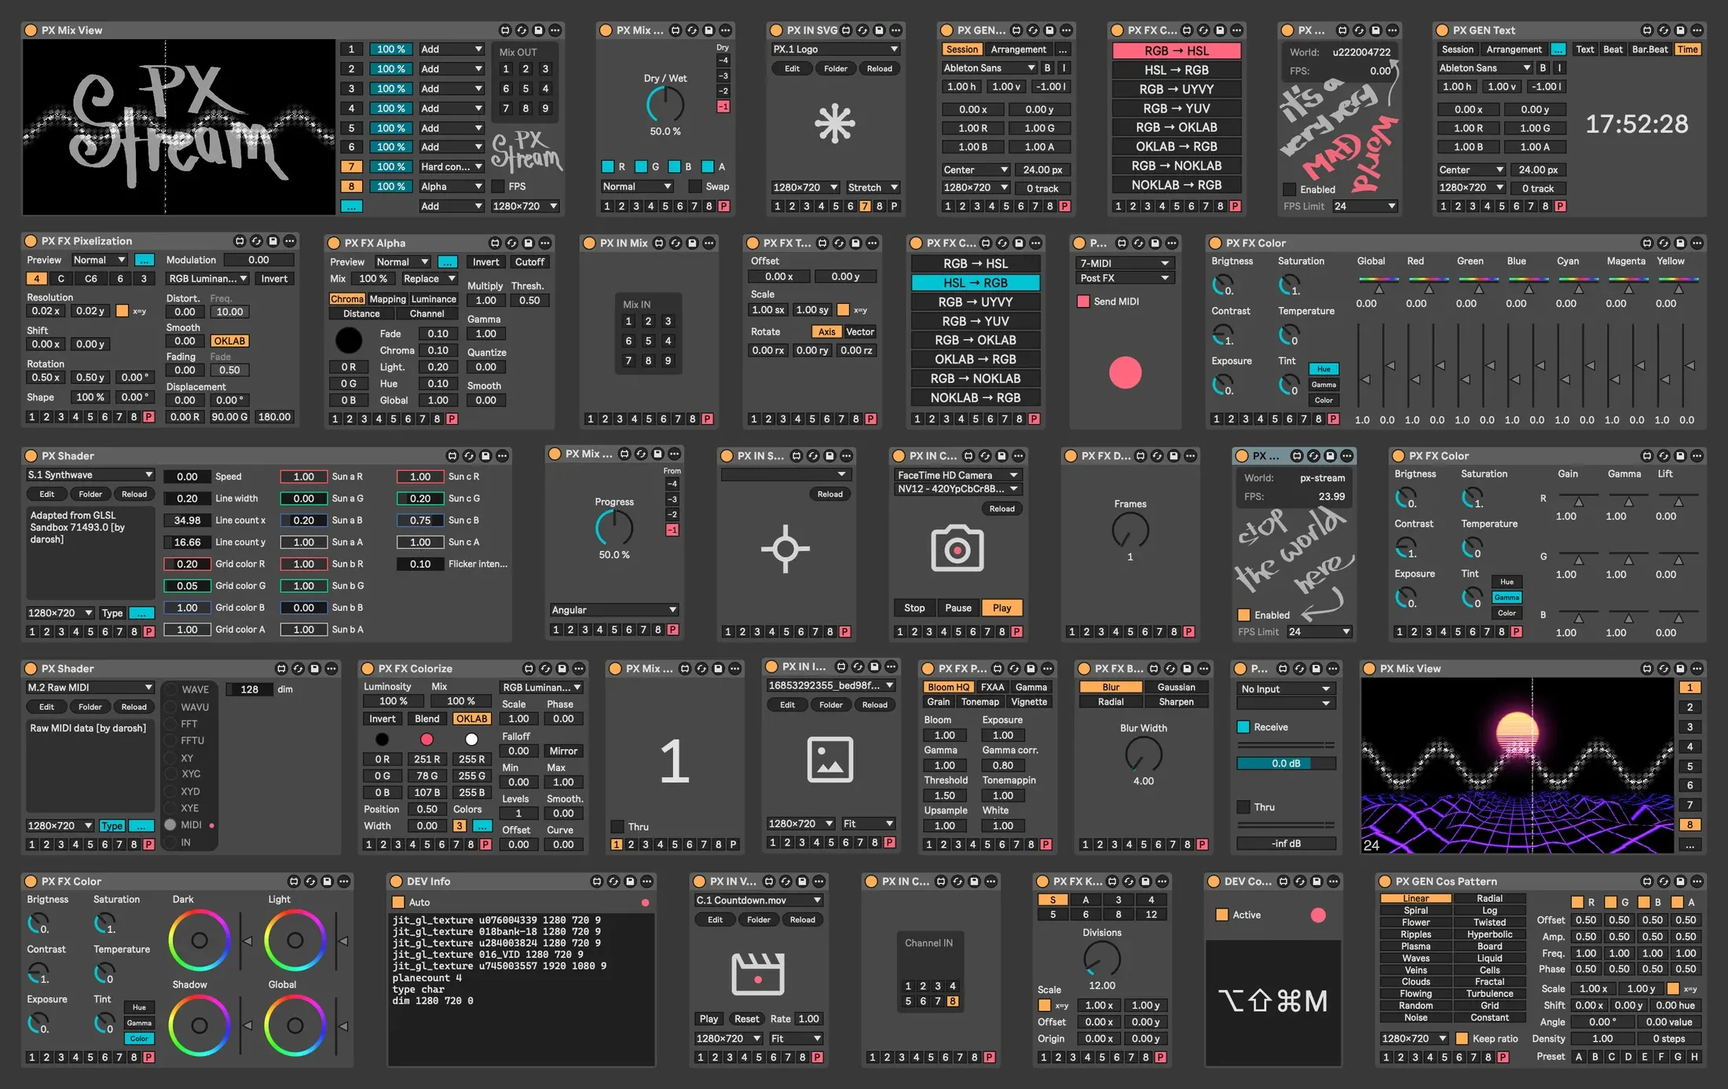
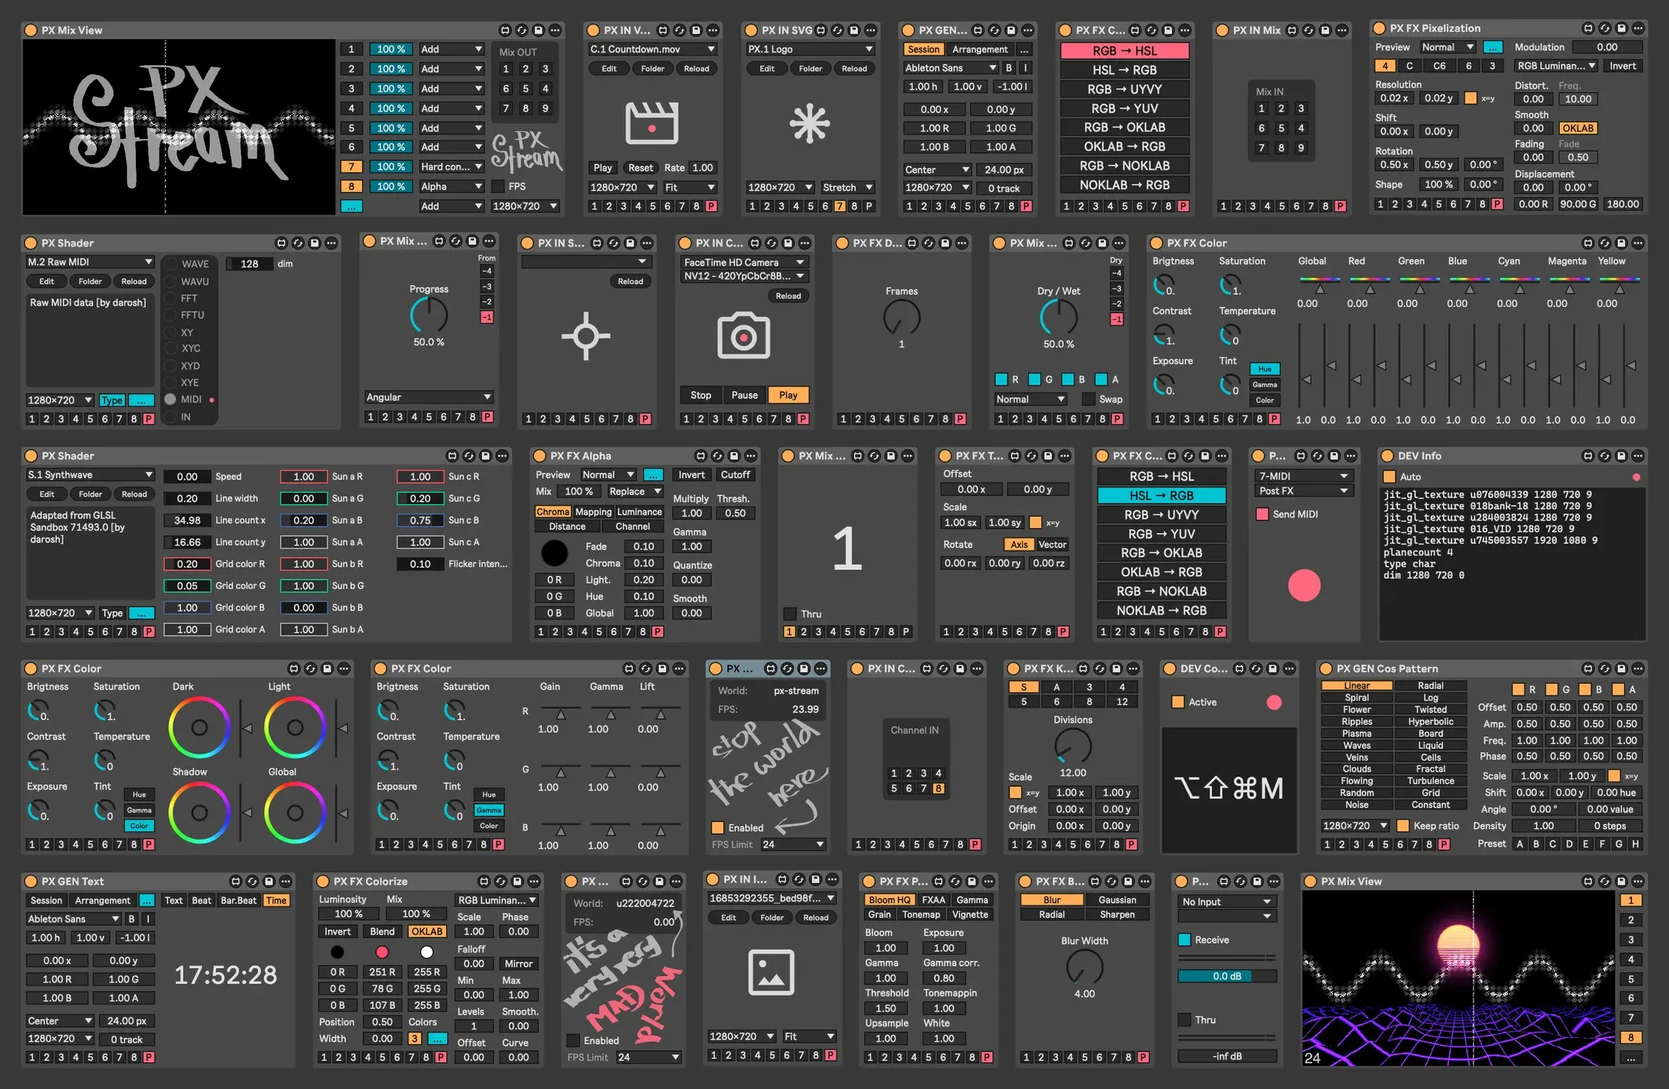
doc

diff --git a/assets/devices.html b/assets/devices.html
@@ -1,38 +1,38 @@
 <div>
-    <a href="#px-mix-view"><img src="./assets/devices/PX_Mix_View_(expanded)_v1.webp" title="PX Mix View" width="263"/></a>
-    <a href="#px-mix-dry"><img src="./assets/devices/PX_Mix_Dry_v1.webp" title="PX Mix Dry" width="69"/></a>
-    <a href="#in-svg"><img src="./assets/devices/PX_IN_SVG_v1.webp" title="IN SVG" width="69"/></a>
-    <a href="#gen-text"><img src="./assets/devices/PX_GEN_Text_v1.webp" title="GEN Text" width="69"/></a>
-    <a href="#fx-convert"><img src="./assets/devices/PX_FX_Convert_v1.webp" title="FX Convert" width="69"/></a>
-    <a href="#px-world"><img src="./assets/devices/PX_World_(mad_world)_v1.webp" title="PX World" width="62"/></a>
-    <a href="#gen-text"><img src="./assets/devices/PX_GEN_Text_(expanded)_v1.webp" title="GEN Text" width="134"/></a>
-    <a href="#fx-pixelization"><img src="./assets/devices/PX_FX_Pixelization_v1.webp" title="FX Pixelization" width="136"/></a>
-    <a href="#fx-alpha"><img src="./assets/devices/PX_FX_Alpha_v1.webp" title="FX Alpha" width="113"/></a>
-    <a href="#in-mix"><img src="./assets/devices/PX_IN_Mix_v1.webp" title="IN Mix" width="69"/></a>
-    <a href="#fx-transform"><img src="./assets/devices/PX_FX_Transform_v1.webp" title="FX Transform" width="69"/></a>
-    <a href="#fx-convert"><img src="./assets/devices/PX_FX_Convert_(convert_back)_v1.webp" title="FX Convert" width="69"/></a>
-    <a href="#px-route-midi"><img src="./assets/devices/PX_Route_MIDI_(linked)_v1.webp" title="PX Route MIDI" width="56"/></a>
-    <a href="#fx-color"><img src="./assets/devices/PX_FX_Color_(hue)_v1.webp" title="FX Color" width="243"/></a>
-    <a href="#px-shader"><img src="./assets/devices/PX_Shader_v1.webp" title="PX Shader" width="238"/></a>
-    <a href="#px-mix-transition"><img src="./assets/devices/PX_Mix_Transition_v1.webp" title="PX Mix Transition" width="69"/></a>
-    <a href="#in-syphon"><img src="./assets/devices/PX_IN_Syphon_v1.webp" title="IN Syphon" width="69"/></a>
-    <a href="#in-cam"><img src="./assets/devices/PX_IN_Cam_v1.webp" title="IN Cam" width="69"/></a>
-    <a href="#fx-delay"><img src="./assets/devices/PX_FX_Delay_v1.webp" title="FX Delay" width="69"/></a>
-    <a href="#px-world"><img src="./assets/devices/PX_World_v1.webp" title="PX World" width="62"/></a>
-    <a href="#fx-color"><img src="./assets/devices/PX_FX_Color_(gamma)_v1.webp" title="FX Color" width="155"/></a>
-    <a href="#px-shader"><img src="./assets/devices/PX_Shader_(types)_v1.webp" title="PX Shader" width="156"/></a>
-    <a href="#fx-colorize"><img src="./assets/devices/PX_FX_Colorize_v1.webp" title="FX Colorize" width="113"/></a>
-    <a href="#px-mix-channel"><img src="./assets/devices/PX_Mix_Channel_v1.webp" title="PX Mix Channel" width="69"/></a>
-    <a href="#in-image"><img src="./assets/devices/PX_IN_Image_v1.webp" title="IN Image" width="69"/></a>
-    <a href="#fx-pass"><img src="./assets/devices/PX_FX_Pass_v1.webp" title="FX Pass" width="69"/></a>
-    <a href="#fx-blur"><img src="./assets/devices/PX_FX_Blur_v1.webp" title="FX Blur" width="69"/></a>
-    <a href="#px-route-audio"><img src="./assets/devices/PX_Route_Audio_v1.webp" title="PX Route Audio" width="56"/></a>
-    <a href="#px-mix-view"><img src="./assets/devices/PX_Mix_View_v1.webp" title="PX Mix View" width="169"/></a>
-    <a href="#fx-color"><img src="./assets/devices/PX_FX_Color_v1.webp" title="FX Color" width="162"/></a>
-    <a href="#dev-info"><img src="./assets/devices/DEV_Info_v1.webp" title="DEV Info" width="132"/></a>
-    <a href="#in-video"><img src="./assets/devices/PX_IN_Video_v1.webp" title="IN Video" width="69"/></a>
-    <a href="#in-channel"><img src="./assets/devices/PX_IN_Channel_v1.webp" title="IN Channel" width="69"/></a>
-    <a href="#fx-kaleidoscope"><img src="./assets/devices/PX_FX_Kaleidoscope_v1.webp" title="FX Kaleidoscope" width="69"/></a>
-    <a href="#dev-console"><img src="./assets/devices/DEV_Console_v1.webp" title="DEV Console" width="69"/></a>
-    <a href="#gen-cos-pattern"><img src="./assets/devices/PX_GEN_Cos_Pattern_v1.webp" title="GEN Cos Pattern" width="161"/></a>
+    <a href="#px-mix-view"><img src="./assets/devices/PX_Mix_View_(expanded)_v1.webp" title="PX Mix View" width="273"/></a>
+    <a href="#in-video"><img src="./assets/devices/PX_IN_Video_v1.webp" title="IN Video" width="71"/></a>
+    <a href="#in-svg"><img src="./assets/devices/PX_IN_SVG_v1.webp" title="IN SVG" width="71"/></a>
+    <a href="#gen-text"><img src="./assets/devices/PX_GEN_Text_v1.webp" title="GEN Text" width="71"/></a>
+    <a href="#fx-convert"><img src="./assets/devices/PX_FX_Convert_v1.webp" title="FX Convert" width="71"/></a>
+    <a href="#in-mix"><img src="./assets/devices/PX_IN_Mix_v1.webp" title="IN Mix" width="71"/></a>
+    <a href="#fx-pixelization"><img src="./assets/devices/PX_FX_Pixelization_v1.webp" title="FX Pixelization" width="141"/></a>
+    <a href="#px-shader"><img src="./assets/devices/PX_Shader_(types)_v1.webp" title="PX Shader" width="161"/></a>
+    <a href="#px-mix-transition"><img src="./assets/devices/PX_Mix_Transition_v1.webp" title="PX Mix Transition" width="71"/></a>
+    <a href="#in-syphon"><img src="./assets/devices/PX_IN_Syphon_v1.webp" title="IN Syphon" width="71"/></a>
+    <a href="#in-cam"><img src="./assets/devices/PX_IN_Cam_v1.webp" title="IN Cam" width="71"/></a>
+    <a href="#fx-delay"><img src="./assets/devices/PX_FX_Delay_v1.webp" title="FX Delay" width="71"/></a>
+    <a href="#px-mix-dry"><img src="./assets/devices/PX_Mix_Dry_v1.webp" title="PX Mix Dry" width="71"/></a>
+    <a href="#fx-color"><img src="./assets/devices/PX_FX_Color_(hue)_v1.webp" title="FX Color" width="252"/></a>
+    <a href="#px-shader"><img src="./assets/devices/PX_Shader_v1.webp" title="PX Shader" width="246"/></a>
+    <a href="#fx-alpha"><img src="./assets/devices/PX_FX_Alpha_v1.webp" title="FX Alpha" width="117"/></a>
+    <a href="#px-mix-channel"><img src="./assets/devices/PX_Mix_Channel_v1.webp" title="PX Mix Channel" width="71"/></a>
+    <a href="#fx-transform"><img src="./assets/devices/PX_FX_Transform_v1.webp" title="FX Transform" width="71"/></a>
+    <a href="#fx-convert"><img src="./assets/devices/PX_FX_Convert_(convert_back)_v1.webp" title="FX Convert" width="71"/></a>
+    <a href="#px-route-midi"><img src="./assets/devices/PX_Route_MIDI_(linked)_v1.webp" title="PX Route MIDI" width="58"/></a>
+    <a href="#dev-info"><img src="./assets/devices/DEV_Info_v1.webp" title="DEV Info" width="137"/></a>
+    <a href="#fx-color"><img src="./assets/devices/PX_FX_Color_v1.webp" title="FX Color" width="168"/></a>
+    <a href="#fx-color"><img src="./assets/devices/PX_FX_Color_(gamma)_v1.webp" title="FX Color" width="161"/></a>
+    <a href="#px-world"><img src="./assets/devices/PX_World_v1.webp" title="PX World" width="64"/></a>
+    <a href="#in-channel"><img src="./assets/devices/PX_IN_Channel_v1.webp" title="IN Channel" width="71"/></a>
+    <a href="#fx-kaleidoscope"><img src="./assets/devices/PX_FX_Kaleidoscope_v1.webp" title="FX Kaleidoscope" width="71"/></a>
+    <a href="#dev-console"><img src="./assets/devices/DEV_Console_v1.webp" title="DEV Console" width="71"/></a>
+    <a href="#gen-cos-pattern"><img src="./assets/devices/PX_GEN_Cos_Pattern_v1.webp" title="GEN Cos Pattern" width="167"/></a>
+    <a href="#gen-text"><img src="./assets/devices/PX_GEN_Text_(expanded)_v1.webp" title="GEN Text" width="139"/></a>
+    <a href="#fx-colorize"><img src="./assets/devices/PX_FX_Colorize_v1.webp" title="FX Colorize" width="117"/></a>
+    <a href="#px-world"><img src="./assets/devices/PX_World_(mad_world)_v1.webp" title="PX World" width="64"/></a>
+    <a href="#in-image"><img src="./assets/devices/PX_IN_Image_v1.webp" title="IN Image" width="71"/></a>
+    <a href="#fx-pass"><img src="./assets/devices/PX_FX_Pass_v1.webp" title="FX Pass" width="71"/></a>
+    <a href="#fx-blur"><img src="./assets/devices/PX_FX_Blur_v1.webp" title="FX Blur" width="71"/></a>
+    <a href="#px-route-audio"><img src="./assets/devices/PX_Route_Audio_v1.webp" title="PX Route Audio" width="58"/></a>
+    <a href="#px-mix-view"><img src="./assets/devices/PX_Mix_View_v1.webp" title="PX Mix View" width="175"/></a>
 </div>

diff --git a/scripts/doc.js b/scripts/doc.js
@@ -2,6 +2,7 @@ import fs from 'fs'
 import path from 'path'
 import { glob } from 'glob'
 import sharp from 'sharp'
+import { readFile, writeFile } from 'fs/promises'
 
 // === CONFIGURATION ===
 const inputPattern = './assets/devices/*.webp' // adjust to your folder
@@ -34,6 +35,79 @@ function imgTitle (name) {
     .replace(/^px gen/i, 'GEN')
 }
 
+function refineRows (rowImages, rowWidths, rowOptimalWidth, maxIterations = 5000) {
+  const rows = rowImages.length
+
+  function score (widths) {
+    // lower is better: variance around target width
+    return widths.reduce((acc, w) => acc + Math.pow(w - rowOptimalWidth, 2), 0)
+  }
+
+  let bestScore = score(rowWidths)
+
+  for (let iter = 0; iter < maxIterations; iter++) {
+    let improved = false
+
+    // Try all pairs of rows
+    for (let r1 = 0; r1 < rows; r1++) {
+      for (let r2 = r1 + 1; r2 < rows; r2++) {
+        // Try all pairs of images between row r1 and r2
+        for (let i1 = 0; i1 < rowImages[r1].length; i1++) {
+          for (let i2 = 0; i2 < rowImages[r2].length; i2++) {
+            const img1 = rowImages[r1][i1]
+            const img2 = rowImages[r2][i2]
+
+            // widths after swap
+            const newWidths = [...rowWidths]
+            newWidths[r1] = newWidths[r1] - img1.width + img2.width
+            newWidths[r2] = newWidths[r2] - img2.width + img1.width
+
+            const newScore = score(newWidths)
+            if (newScore < bestScore) {
+              // accept swap
+              rowImages[r1][i1] = img2
+              rowImages[r2][i2] = img1
+              rowWidths[r1] = newWidths[r1]
+              rowWidths[r2] = newWidths[r2]
+              bestScore = newScore
+              improved = true
+            }
+          }
+        }
+      }
+    }
+
+    if (!improved) break // stop if no better swap found
+  }
+
+  return { rowImages, rowWidths }
+}
+
+async function createHtmlCollage (maxRowWidth, layout) {
+  // Generate HTML snippet for GH
+  const scaleFactor = targetWidth / (maxRowWidth + margin * 2)
+  const html = []
+  html.push(`<div>`)
+
+  layout.forEach((row, rowIndex) => {
+    // html.push(`  <div>`)
+    row.forEach((img, i) => {
+      const scaledWidth = Math.round(img.width * scaleFactor)
+      const title = imgTitle(img.name)
+      html.push(
+        `    <a href="#${imgSection(img.name)}"><img src="./${path.join('assets', 'devices', img.name)}" title="${title}" width="${scaledWidth}"/></a>`
+      )
+    })
+    // html.push('  </div>')
+  })
+  html.push('</div>')
+
+  await writeFile(htmlOutput, html.join('\n'), 'utf-8')
+  console.log('HTML snippet saved to', htmlOutput)
+
+  return html
+}
+
 async function createCollage () {
   // Get images
   const files = glob.sync(inputPattern)
@@ -52,9 +126,12 @@ async function createCollage () {
   // Sort images by width (descending)
   images.sort((a, b) => b.width - a.width)
 
+  const totalWidth = images.reduce((acc, { width }) => acc + width + spacing, 0)
+  const rowOptimalWidth = totalWidth / rows
+
   // Initialize rows
-  const rowImages = Array.from({ length: rows }, () => [])
-  const rowWidths = Array(rows).fill(0)
+  let rowImages = Array.from({ length: rows }, () => [])
+  let rowWidths = Array(rows).fill(0)
 
   // Greedy bin packing: assign each image to the row with least current width
   for (const img of images) {
@@ -62,6 +139,13 @@ async function createCollage () {
     rowImages[targetRow].push(img)
     rowWidths[targetRow] += img.width + spacing
   }
+
+  // console.log({ rowWidths })
+
+  const { rowImages: refinedImages, rowWidths: refinedWidths } = refineRows(rowImages, rowWidths, rowOptimalWidth)
+  rowImages = refinedImages
+
+  // console.log({ refinedWidths })
 
   // Compute max row width
   const maxRowWidth = Math.max(
@@ -72,13 +156,22 @@ async function createCollage () {
 
   const totalHeight = rows * rowHeight + (rows - 1) * spacing
 
+  for (let rowIndex = 1; rowIndex < rowImages.length; rowIndex += 2) {
+    const t = rowImages[rowIndex]
+    rowImages[rowIndex] = rowImages[rowIndex + 1]
+    rowImages[rowIndex + 1] = t
+  }
+
   for (const row of rowImages) {
-    const index = (rowImages.indexOf(row) % 2 === 0) * 1;
+    let indexOf = rowImages.indexOf(row)
+    indexOf = indexOf === 3 ? indexOf + 1 : indexOf
+
+    const index = (indexOf % 2 === 0) * 1
     const pick = row[index]
     row.splice(index, 1)
     row.push(pick)
   }
-  
+
   // Prepare sharp composites and layout data for HTML
   const composites = []
   const layout = []
@@ -141,26 +234,30 @@ async function createCollage () {
   await collage.toFile(outputFile)
   console.log('Collage saved to', outputFile)
 
-  // Generate HTML snippet for GH
-  const scaleFactor = targetWidth / (maxRowWidth + margin * 2)
-  const html = []
-  html.push(`<div>`)
-
-  layout.forEach((row, rowIndex) => {
-    // html.push(`  <div>`)
-    row.forEach((img, i) => {
-      const scaledWidth = Math.round(img.width * scaleFactor)
-      const title = imgTitle(img.name)
-      html.push(
-        `    <a href="#${imgSection(img.name)}"><img src="./${path.join('assets', 'devices', img.name)}" title="${title}" width="${scaledWidth}"/></a>`
-      )
-    })
-    // html.push('  </div>')
-  })
-  html.push('</div>')
-
-  fs.writeFileSync(htmlOutput, html.join('\n'), 'utf-8')
-  console.log('HTML snippet saved to', htmlOutput)
+  return { maxRowWidth, layout }
 }
 
-await createCollage().catch(console.error)
+function replaceLines (lines, slug, replace) {
+  const begin = `<!-- begin: ${slug} -->`
+  const end = `<!-- end: ${slug} -->`
+
+  return [
+    ...lines.slice(0, lines.indexOf(begin) + 1),
+    ...Array.isArray(replace) ? replace : replace.split('\n'),
+    ...lines.slice(lines.indexOf(end))
+  ]
+}
+
+async function updateReadme (htmlCollage) {
+  const outputFile = './README.md'
+  const rm = readFile(outputFile, 'utf8')
+  const lines = (await rm).split('\n')
+  const updatedLines = replaceLines(lines, 'collage', htmlCollage)
+
+  await writeFile(outputFile, updatedLines.join('\n'))
+  console.log('README.md updated', outputFile)
+}
+
+const { maxRowWidth, layout } = await createCollage().catch(console.error)
+const htmlCollage = await createHtmlCollage(maxRowWidth, layout)
+await updateReadme(htmlCollage)

diff --git a/README.md b/README.md
@@ -6,44 +6,46 @@
 
 ## Devices
 
+<!-- begin: collage -->
 <div>
-    <a href="#px-mix-view"><img src="./assets/devices/PX_Mix_View_(expanded)_v1.webp" title="PX Mix View" width="263"/></a>
-    <a href="#px-mix-dry"><img src="./assets/devices/PX_Mix_Dry_v1.webp" title="PX Mix Dry" width="69"/></a>
-    <a href="#in-svg"><img src="./assets/devices/PX_IN_SVG_v1.webp" title="IN SVG" width="69"/></a>
-    <a href="#gen-text"><img src="./assets/devices/PX_GEN_Text_v1.webp" title="GEN Text" width="69"/></a>
-    <a href="#fx-convert"><img src="./assets/devices/PX_FX_Convert_v1.webp" title="FX Convert" width="69"/></a>
-    <a href="#px-world"><img src="./assets/devices/PX_World_(mad_world)_v1.webp" title="PX World" width="62"/></a>
-    <a href="#gen-text"><img src="./assets/devices/PX_GEN_Text_(expanded)_v1.webp" title="GEN Text" width="134"/></a>
-    <a href="#fx-pixelization"><img src="./assets/devices/PX_FX_Pixelization_v1.webp" title="FX Pixelization" width="136"/></a>
-    <a href="#fx-alpha"><img src="./assets/devices/PX_FX_Alpha_v1.webp" title="FX Alpha" width="113"/></a>
-    <a href="#in-mix"><img src="./assets/devices/PX_IN_Mix_v1.webp" title="IN Mix" width="69"/></a>
-    <a href="#fx-transform"><img src="./assets/devices/PX_FX_Transform_v1.webp" title="FX Transform" width="69"/></a>
-    <a href="#fx-convert"><img src="./assets/devices/PX_FX_Convert_(convert_back)_v1.webp" title="FX Convert" width="69"/></a>
-    <a href="#px-route-midi"><img src="./assets/devices/PX_Route_MIDI_(linked)_v1.webp" title="PX Route MIDI" width="56"/></a>
-    <a href="#fx-color"><img src="./assets/devices/PX_FX_Color_(hue)_v1.webp" title="FX Color" width="243"/></a>
-    <a href="#px-shader"><img src="./assets/devices/PX_Shader_v1.webp" title="PX Shader" width="238"/></a>
-    <a href="#px-mix-transition"><img src="./assets/devices/PX_Mix_Transition_v1.webp" title="PX Mix Transition" width="69"/></a>
-    <a href="#in-syphon"><img src="./assets/devices/PX_IN_Syphon_v1.webp" title="IN Syphon" width="69"/></a>
-    <a href="#in-cam"><img src="./assets/devices/PX_IN_Cam_v1.webp" title="IN Cam" width="69"/></a>
-    <a href="#fx-delay"><img src="./assets/devices/PX_FX_Delay_v1.webp" title="FX Delay" width="69"/></a>
-    <a href="#px-world"><img src="./assets/devices/PX_World_v1.webp" title="PX World" width="62"/></a>
-    <a href="#fx-color"><img src="./assets/devices/PX_FX_Color_(gamma)_v1.webp" title="FX Color" width="155"/></a>
-    <a href="#px-shader"><img src="./assets/devices/PX_Shader_(types)_v1.webp" title="PX Shader" width="156"/></a>
-    <a href="#fx-colorize"><img src="./assets/devices/PX_FX_Colorize_v1.webp" title="FX Colorize" width="113"/></a>
-    <a href="#px-mix-channel"><img src="./assets/devices/PX_Mix_Channel_v1.webp" title="PX Mix Channel" width="69"/></a>
-    <a href="#in-image"><img src="./assets/devices/PX_IN_Image_v1.webp" title="IN Image" width="69"/></a>
-    <a href="#fx-pass"><img src="./assets/devices/PX_FX_Pass_v1.webp" title="FX Pass" width="69"/></a>
-    <a href="#fx-blur"><img src="./assets/devices/PX_FX_Blur_v1.webp" title="FX Blur" width="69"/></a>
-    <a href="#px-route-audio"><img src="./assets/devices/PX_Route_Audio_v1.webp" title="PX Route Audio" width="56"/></a>
-    <a href="#px-mix-view"><img src="./assets/devices/PX_Mix_View_v1.webp" title="PX Mix View" width="169"/></a>
-    <a href="#fx-color"><img src="./assets/devices/PX_FX_Color_v1.webp" title="FX Color" width="162"/></a>
-    <a href="#dev-info"><img src="./assets/devices/DEV_Info_v1.webp" title="DEV Info" width="132"/></a>
-    <a href="#in-video"><img src="./assets/devices/PX_IN_Video_v1.webp" title="IN Video" width="69"/></a>
-    <a href="#in-channel"><img src="./assets/devices/PX_IN_Channel_v1.webp" title="IN Channel" width="69"/></a>
-    <a href="#fx-kaleidoscope"><img src="./assets/devices/PX_FX_Kaleidoscope_v1.webp" title="FX Kaleidoscope" width="69"/></a>
-    <a href="#dev-console"><img src="./assets/devices/DEV_Console_v1.webp" title="DEV Console" width="69"/></a>
-    <a href="#gen-cos-pattern"><img src="./assets/devices/PX_GEN_Cos_Pattern_v1.webp" title="GEN Cos Pattern" width="161"/></a>
+    <a href="#px-mix-view"><img src="./assets/devices/PX_Mix_View_(expanded)_v1.webp" title="PX Mix View" width="273"/></a>
+    <a href="#in-video"><img src="./assets/devices/PX_IN_Video_v1.webp" title="IN Video" width="71"/></a>
+    <a href="#in-svg"><img src="./assets/devices/PX_IN_SVG_v1.webp" title="IN SVG" width="71"/></a>
+    <a href="#gen-text"><img src="./assets/devices/PX_GEN_Text_v1.webp" title="GEN Text" width="71"/></a>
+    <a href="#fx-convert"><img src="./assets/devices/PX_FX_Convert_v1.webp" title="FX Convert" width="71"/></a>
+    <a href="#in-mix"><img src="./assets/devices/PX_IN_Mix_v1.webp" title="IN Mix" width="71"/></a>
+    <a href="#fx-pixelization"><img src="./assets/devices/PX_FX_Pixelization_v1.webp" title="FX Pixelization" width="141"/></a>
+    <a href="#px-shader"><img src="./assets/devices/PX_Shader_(types)_v1.webp" title="PX Shader" width="161"/></a>
+    <a href="#px-mix-transition"><img src="./assets/devices/PX_Mix_Transition_v1.webp" title="PX Mix Transition" width="71"/></a>
+    <a href="#in-syphon"><img src="./assets/devices/PX_IN_Syphon_v1.webp" title="IN Syphon" width="71"/></a>
+    <a href="#in-cam"><img src="./assets/devices/PX_IN_Cam_v1.webp" title="IN Cam" width="71"/></a>
+    <a href="#fx-delay"><img src="./assets/devices/PX_FX_Delay_v1.webp" title="FX Delay" width="71"/></a>
+    <a href="#px-mix-dry"><img src="./assets/devices/PX_Mix_Dry_v1.webp" title="PX Mix Dry" width="71"/></a>
+    <a href="#fx-color"><img src="./assets/devices/PX_FX_Color_(hue)_v1.webp" title="FX Color" width="252"/></a>
+    <a href="#px-shader"><img src="./assets/devices/PX_Shader_v1.webp" title="PX Shader" width="246"/></a>
+    <a href="#fx-alpha"><img src="./assets/devices/PX_FX_Alpha_v1.webp" title="FX Alpha" width="117"/></a>
+    <a href="#px-mix-channel"><img src="./assets/devices/PX_Mix_Channel_v1.webp" title="PX Mix Channel" width="71"/></a>
+    <a href="#fx-transform"><img src="./assets/devices/PX_FX_Transform_v1.webp" title="FX Transform" width="71"/></a>
+    <a href="#fx-convert"><img src="./assets/devices/PX_FX_Convert_(convert_back)_v1.webp" title="FX Convert" width="71"/></a>
+    <a href="#px-route-midi"><img src="./assets/devices/PX_Route_MIDI_(linked)_v1.webp" title="PX Route MIDI" width="58"/></a>
+    <a href="#dev-info"><img src="./assets/devices/DEV_Info_v1.webp" title="DEV Info" width="137"/></a>
+    <a href="#fx-color"><img src="./assets/devices/PX_FX_Color_v1.webp" title="FX Color" width="168"/></a>
+    <a href="#fx-color"><img src="./assets/devices/PX_FX_Color_(gamma)_v1.webp" title="FX Color" width="161"/></a>
+    <a href="#px-world"><img src="./assets/devices/PX_World_v1.webp" title="PX World" width="64"/></a>
+    <a href="#in-channel"><img src="./assets/devices/PX_IN_Channel_v1.webp" title="IN Channel" width="71"/></a>
+    <a href="#fx-kaleidoscope"><img src="./assets/devices/PX_FX_Kaleidoscope_v1.webp" title="FX Kaleidoscope" width="71"/></a>
+    <a href="#dev-console"><img src="./assets/devices/DEV_Console_v1.webp" title="DEV Console" width="71"/></a>
+    <a href="#gen-cos-pattern"><img src="./assets/devices/PX_GEN_Cos_Pattern_v1.webp" title="GEN Cos Pattern" width="167"/></a>
+    <a href="#gen-text"><img src="./assets/devices/PX_GEN_Text_(expanded)_v1.webp" title="GEN Text" width="139"/></a>
+    <a href="#fx-colorize"><img src="./assets/devices/PX_FX_Colorize_v1.webp" title="FX Colorize" width="117"/></a>
+    <a href="#px-world"><img src="./assets/devices/PX_World_(mad_world)_v1.webp" title="PX World" width="64"/></a>
+    <a href="#in-image"><img src="./assets/devices/PX_IN_Image_v1.webp" title="IN Image" width="71"/></a>
+    <a href="#fx-pass"><img src="./assets/devices/PX_FX_Pass_v1.webp" title="FX Pass" width="71"/></a>
+    <a href="#fx-blur"><img src="./assets/devices/PX_FX_Blur_v1.webp" title="FX Blur" width="71"/></a>
+    <a href="#px-route-audio"><img src="./assets/devices/PX_Route_Audio_v1.webp" title="PX Route Audio" width="58"/></a>
+    <a href="#px-mix-view"><img src="./assets/devices/PX_Mix_View_v1.webp" title="PX Mix View" width="175"/></a>
 </div>
+<!-- end: collage -->
 
 <br>
 
